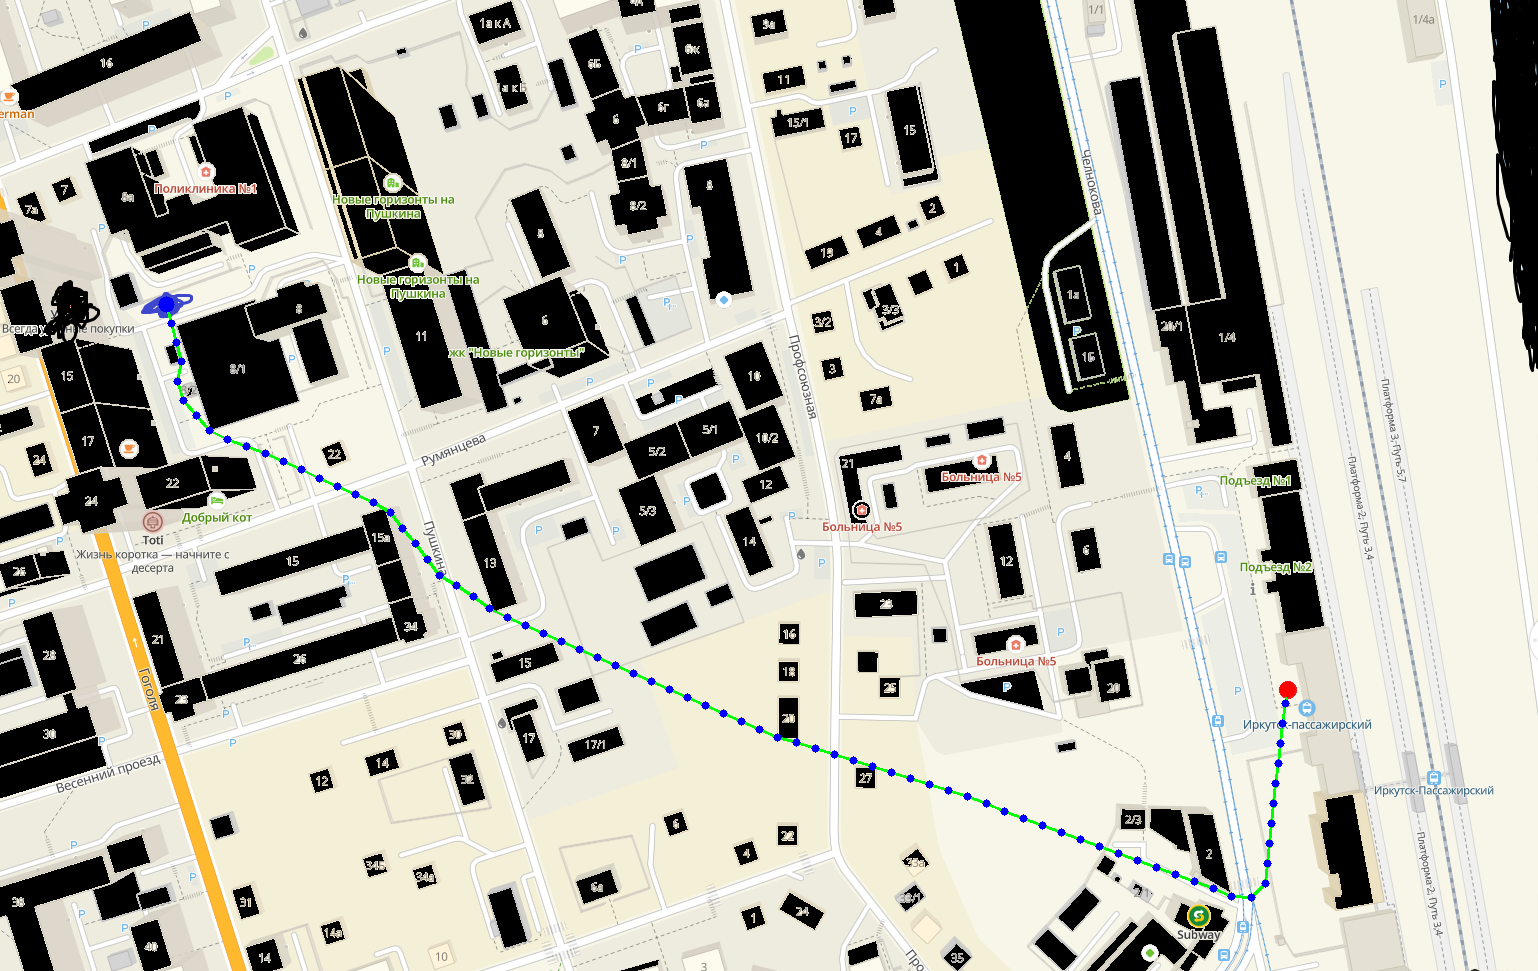
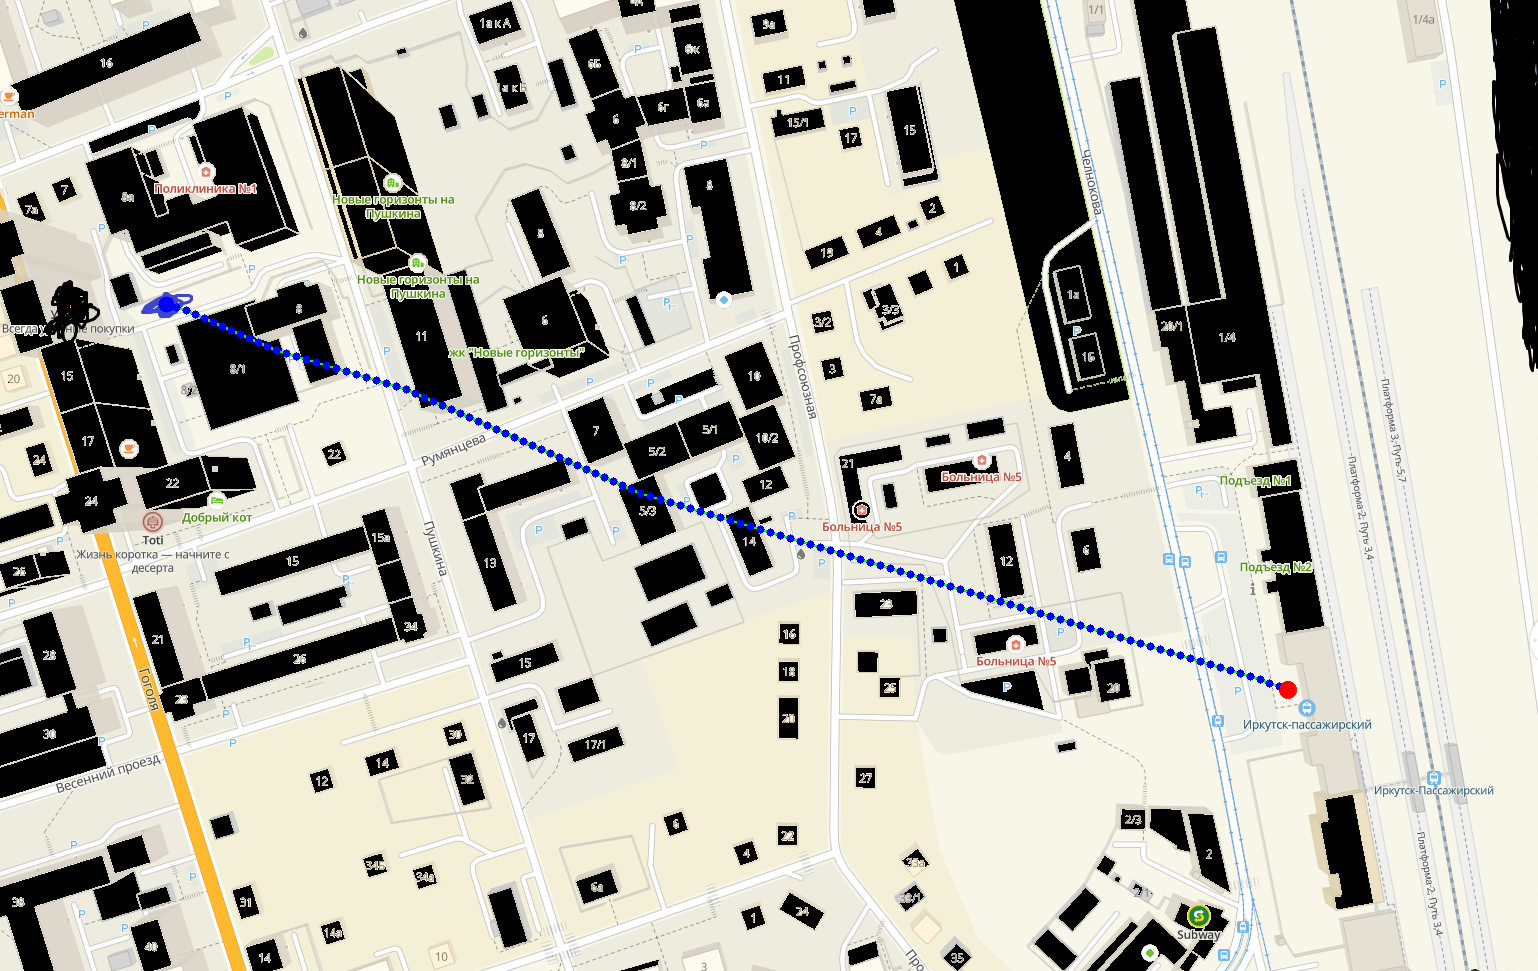
Liam fixing

diff --git a/02_LIAM/lian.py b/02_LIAM/lian.py
@@ -7,7 +7,7 @@ class Lian:
         self.grid = grid
         self.height, self.width = grid.shape
         self.delta = delta
-        self.alpha_max = math.radians(alpha_max) # Конвертируем в радианы
+        self.alpha_max = math.radians(alpha_max)
 
     def _is_obstacle(self, x, y):
         """Проверяет, является ли ячейка препятствием."""
@@ -17,30 +17,21 @@ class Lian:
         return True
 
     def _get_circle_successors(self, node):
-        """Генерирует точки на окружности радиуса Delta."""
+        """Генерирует все точки на окружности радиуса Delta."""
         x_center, y_center = node
         successors = set()
-        x = self.delta
-        y = 0
-        p = 1 - self.delta
         
-        while x >= y:
-            points = [
-                (x_center + x, y_center + y), (x_center - x, y_center + y),
-                (x_center + x, y_center - y), (x_center - x, y_center - y),
-                (x_center + y, y_center + x), (x_center - y, y_center + x),
-                (x_center + y, y_center - x), (x_center - y, y_center - x),
-            ]
-            for p_ in points:
-                if 0 <= p_[0] < self.width and 0 <= p_[1] < self.height:
-                    successors.add((int(p_[0]), int(p_[1])))
-            
-            y += 1
-            if p <= 0:
-                p = p + 2 * y + 1
-            else:
-                x -= 1
-                p = p + 2 * y - 2 * x + 1
+        # Генерируем все точки на окружности, проверяя каждую точку в квадрате
+        for dx in range(-self.delta, self.delta + 1):
+            for dy in range(-self.delta, self.delta + 1):
+                # Проверяем, что точка лежит на окружности (с небольшой погрешностью)
+                dist = math.sqrt(dx**2 + dy**2)
+                if abs(dist - self.delta) < 0.5:  # Допуск для целочисленных координат
+                    x, y = x_center + dx, y_center + dy
+                    # Проверяем границы сетки
+                    if 0 <= x < self.width and 0 <= y < self.height:
+                        successors.add((int(x), int(y)))
+        
         return list(successors)
 
     def _heuristic(self, a, b):

diff --git a/02_LIAM/map.py b/02_LIAM/map.py
@@ -61,9 +61,12 @@ def process_image(file_name):
     gray_image = cv2.cvtColor(temp_image, cv2.COLOR_BGR2GRAY)
     # Препятствия - черные, путь - белый. THRESH_BINARY_INV инвертирует это.
     # Порог 200 хорошо отделяет черные здания от светло-серого фона карты.
-    _, binary_image = cv2.threshold(gray_image, 200, 255, cv2.THRESH_BINARY_INV)
+    _, binary_image = cv2.threshold(gray_image, 200, 1, cv2.THRESH_BINARY)
+    
+    grid = 1 - binary_image
     
     # Преобразуем в сетку: 1 - препятствие, 0 - свободно
-    grid = (binary_image == 255).astype(int)
+    debug_vis = binary_image.copy() * 255
+    cv2.imwrite('debug_binary_grid.png', binary_image) 
 
     return grid, start_coords, end_coords

diff --git a/02_LIAM/main.py b/02_LIAM/main.py
@@ -26,8 +26,8 @@ def draw_path(image, path, color=(0, 0, 255), thickness=3):
 def main():
     # --- Параметры ---
     image_path = 'karta-01.bmp'
-    delta = 20     # Радиус поиска (в пикселях)
-    alpha_max = 50  # Максимальный угол отклонения (в градусах)
+    delta = 15   # Радиус поиска (в пикселях)
+    alpha_max = 30  # Максимальный угол отклонения (в градусах)
 
     # 1. Обрабатываем изображение: получаем сетку, старт и финиш
     try:
